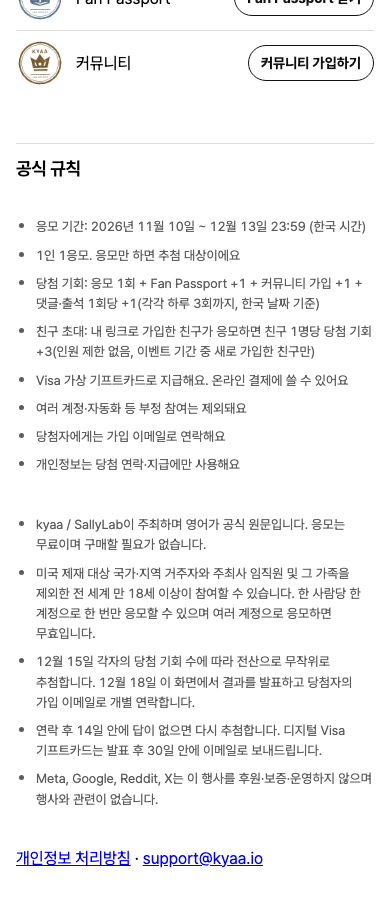
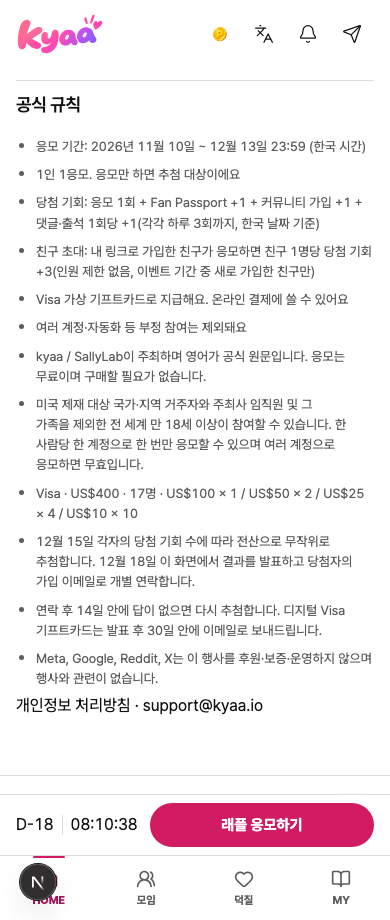
Localize entry chances and verify official rules on mobile

diff --git a/apps/web/app/s/raffle/rules/copy.ts b/apps/web/app/s/raffle/rules/copy.ts
@@ -4,6 +4,7 @@ export const officialRules = {
   "en": [
     "Hosted by kyaa / SallyLab. English is the official version. Entry is free. No purchase necessary.",
     "Open worldwide to people aged 18 or older, except residents of countries or regions under US sanctions and employees of the organizer and their families. One entry and one account per person. Multiple accounts invalidate entry.",
+    "Visa · US$400 · 17 winners · US$100 × 1 / US$50 × 2 / US$25 × 4 / US$10 × 10",
     "On December 15, a computerized random draw will select winners based on their chances. Results will appear here on December 18. Winners will also receive an email at their registered address.",
     "Reply within 14 days of contact or another winner will be drawn. Digital Visa gift cards will be emailed within 30 days of the announcement.",
     "Meta, Google, Reddit and X do not sponsor, endorse or administer this raffle and are not affiliated with it."
@@ -11,12 +12,15 @@ export const officialRules = {
   "ko": [
     "kyaa / SallyLab이 주최하며 영어가 공식 원문입니다. 응모는 무료이며 구매할 필요가 없습니다.",
     "미국 제재 대상 국가·지역 거주자와 주최사 임직원 및 그 가족을 제외한 전 세계 만 18세 이상이 참여할 수 있습니다. 한 사람당 한 계정으로 한 번만 응모할 수 있으며 여러 계정으로 응모하면 무효입니다.",
+    "Visa · US$400 · 17명 · US$100 × 1 / US$50 × 2 / US$25 × 4 / US$10 × 10",
     "12월 15일 각자의 당첨 기회 수에 따라 전산으로 무작위로 추첨합니다. 12월 18일 이 화면에서 결과를 발표하고 당첨자의 가입 이메일로 개별 연락합니다.",
     "연락 후 14일 안에 답이 없으면 다시 추첨합니다. 디지털 Visa 기프트카드는 발표 후 30일 안에 이메일로 보내드립니다.",
     "Meta, Google, Reddit, X는 이 행사를 후원·보증·운영하지 않으며 행사와 관련이 없습니다."
   ],
   "ja": [
     "主催は kyaa / SallyLab。英語版が公式です。応募は無料で、購入は不要です。",
+    "2026-11-10 – 2026-12-13 23:59 KST · 応募1回。Fan Passport とコミュニティ参加で各+1。コメントとチェックインは各1回+1（韓国時間で各1日3回まで）。招待リンクから期間中に新規登録して応募した友人1人につき+3、人数制限なし。",
+    "Visa · US$400 · 17名 · US$100 × 1 / US$50 × 2 / US$25 × 4 / US$10 × 10",
     "世界各地の18歳以上が対象です。米国の制裁対象国・地域の居住者、主催者の役職員とその家族は対象外です。応募は1人1アカウントで1回限り。複数アカウントは無効です。",
     "12月15日に抽選口数に応じたコンピューター抽選を行います。12月18日にこの画面で発表し、当選者の登録メールにも通知します。",
     "通知後14日以内に返信がなければ再抽選します。デジタルVisaギフトカードは発表後30日以内にメールで送付します。",
@@ -24,6 +28,8 @@ export const officialRules = {
   ],
   "zh-Hans": [
     "主办方为 kyaa / SallyLab。英文版为正式版本。免费参加，无需购买。",
+    "2026-11-10 – 2026-12-13 23:59 KST · 报名获1次机会。领取 Fan Passport、加入社区各加1次。评论、签到每次加1次，按韩国日期各限每天3次。活动期间好友通过你的链接注册并参加，每人加3次，人数不限。",
+    "Visa · US$400 · 17名 · US$100 × 1 / US$50 × 2 / US$25 × 4 / US$10 × 10",
     "面向全球年满18岁者，美国制裁国家或地区居民、主办方员工及其家属除外。每人限用一个账号参加一次，多账号参与无效。",
     "12月15日按每人的抽奖机会数进行电脑随机抽奖。12月18日在本页公布结果，并通过注册邮箱通知中奖者。",
     "收到通知后14天内未回复将重新抽奖。数字 Visa 礼品卡将在公布结果后30天内通过电子邮件发送。",
@@ -31,6 +37,8 @@ export const officialRules = {
   ],
   "zh-Hant": [
     "主辦單位為 kyaa / SallyLab。英文版為正式版本。免費參加，無須購買。",
+    "2026-11-10 – 2026-12-13 23:59 KST · 報名得1次機會。領取 Fan Passport、加入社群各加1次。留言、簽到每次加1次，以韓國日期計算，各限每天3次。活動期間好友透過你的連結註冊並參加，每人加3次，人數不限。",
+    "Visa · US$400 · 17名 · US$100 × 1 / US$50 × 2 / US$25 × 4 / US$10 × 10",
     "開放全球年滿18歲者參加，美國制裁國家或地區的居民、主辦單位員工及其家屬除外。每人限用一個帳號參加一次，多帳號參加無效。",
     "12月15日依每人的抽獎機會數進行電腦隨機抽獎。12月18日在本頁公布結果，並寄信至得獎者的註冊信箱。",
     "收到通知後14天內未回覆將重新抽獎。數位 Visa 禮品卡將於公布結果後30天內以電子郵件寄出。",
@@ -38,6 +46,8 @@ export const officialRules = {
   ],
   "es": [
     "Organiza kyaa / SallyLab. La versión oficial es la inglesa. Participar es gratis y no requiere compra.",
+    "2026-11-10 – 2026-12-13 23:59 KST · Una oportunidad al participar. Fan Passport y unirse a una comunidad suman una cada uno. Cada comentario o registro diario suma una (máximo tres de cada tipo por día en Corea). Cada amigo que se registre con tu enlace durante el evento y participe suma tres, sin límite de amigos.",
+    "Visa · US$400 · 17 ganadores · US$100 × 1 / US$50 × 2 / US$25 × 4 / US$10 × 10",
     "Pueden participar mayores de 18 años y personas de 18 años de todo el mundo, salvo residentes de países o regiones bajo sanciones de EE. UU., empleados del organizador y sus familias. Una participación y una cuenta por persona. Usar varias cuentas invalida la participación.",
     "El 15 de diciembre se realizará un sorteo informático aleatorio ponderado según las oportunidades acumuladas. El 18 de diciembre se publicarán los resultados aquí y se avisará a los ganadores por su correo registrado.",
     "Si no hay respuesta en los 14 días siguientes al aviso, se repetirá el sorteo. Las tarjetas Visa digitales se enviarán por correo electrónico en los 30 días siguientes al anuncio.",
@@ -45,6 +55,8 @@ export const officialRules = {
   ],
   "fr": [
     "Organisé par kyaa / SallyLab. La version anglaise fait foi. La participation est gratuite et sans obligation d’achat.",
+    "2026-11-10 – 2026-12-13 23:59 KST · Une chance à l’inscription. Le Fan Passport et l’adhésion à une communauté ajoutent chacun une chance. Chaque commentaire ou pointage ajoute une chance, dans la limite de trois par type et par jour en Corée. Chaque ami qui crée son compte via votre lien pendant l’événement et participe ajoute trois chances, sans limite d’amis.",
+    "Visa · US$400 · 17 gagnants · US$100 × 1 / US$50 × 2 / US$25 × 4 / US$10 × 10",
     "Ouvert dès 18 ans dans le monde entier, sauf aux résidents des pays et régions sous sanctions américaines, au personnel de l’organisateur et à ses familles. Une participation et un compte par personne. Tout usage de plusieurs comptes annule la participation.",
     "Le 15 décembre, un tirage informatique aléatoire tiendra compte des chances cumulées. Les résultats seront publiés ici le 18 décembre et les gagnants seront contactés à leur adresse électronique d’inscription.",
     "Sans réponse dans les 14 jours suivant le contact, un nouveau tirage aura lieu. Les cartes cadeaux Visa numériques seront envoyées par courriel dans les 30 jours suivant l’annonce.",
@@ -52,6 +64,8 @@ export const officialRules = {
   ],
   "pt": [
     "Organização de kyaa / SallyLab. A versão oficial é a inglesa. A participação é gratuita e não exige compra.",
+    "2026-11-10 – 2026-12-13 23:59 KST · Uma chance pela inscrição. O Fan Passport e a entrada em uma comunidade dão uma chance cada. Cada comentário ou check-in soma uma chance, até três de cada tipo por dia na Coreia. Cada amigo que criar uma conta pelo seu link durante o evento e participar soma três chances, sem limite de amigos.",
+    "Visa · US$400 · 17 ganhadores · US$100 × 1 / US$50 × 2 / US$25 × 4 / US$10 × 10",
     "Aberto a pessoas a partir de 18 anos em todo o mundo, exceto residentes de países ou regiões sob sanções dos EUA, funcionários da organizadora e seus familiares. Uma inscrição e uma conta por pessoa. O uso de várias contas invalida a inscrição.",
     "Em 15 de dezembro, um sorteio eletrônico aleatório levará em conta as chances acumuladas. Os resultados serão publicados aqui em 18 de dezembro e os ganhadores receberão um aviso no e-mail cadastrado.",
     "Sem resposta em até 14 dias após o contato, haverá novo sorteio. Os cartões-presente Visa digitais serão enviados por e-mail em até 30 dias após o anúncio.",
@@ -59,6 +73,8 @@ export const officialRules = {
   ],
   "id": [
     "Diselenggarakan oleh kyaa / SallyLab. Versi resmi berbahasa Inggris. Keikutsertaan gratis tanpa pembelian.",
+    "2026-11-10 – 2026-12-13 23:59 KST · Mendaftar memberi satu peluang. Fan Passport dan bergabung dengan komunitas masing-masing memberi satu tambahan. Setiap komentar atau presensi memberi satu lagi, maksimal tiga per jenis per hari waktu Korea. Setiap teman yang membuat akun lewat tautan Anda selama acara dan ikut undian memberi tiga tambahan, tanpa batas jumlah teman.",
+    "Visa · US$400 · 17 pemenang · US$100 × 1 / US$50 × 2 / US$25 × 4 / US$10 × 10",
     "Terbuka bagi peserta berusia 18 tahun ke atas di seluruh dunia, kecuali penduduk negara atau wilayah yang dikenai sanksi AS, pegawai penyelenggara dan keluarga mereka. Satu akun dan satu pendaftaran per orang. Penggunaan beberapa akun membatalkan pendaftaran.",
     "Pada 15 Desember komputer akan mengundi pemenang secara acak berdasarkan jumlah peluang masing-masing. Hasil diumumkan di sini pada 18 Desember dan pemenang dihubungi melalui email terdaftar.",
     "Jika tidak ada balasan dalam 14 hari sejak dihubungi, pengundian akan diulang. Kartu hadiah Visa digital dikirim melalui email dalam 30 hari setelah pengumuman.",
@@ -66,6 +82,8 @@ export const officialRules = {
   ],
   "vi": [
     "kyaa / SallyLab tổ chức. Bản tiếng Anh là bản chính thức. Tham gia miễn phí, không cần mua hàng.",
+    "2026-11-10 – 2026-12-13 23:59 KST · Đăng ký được một cơ hội. Nhận Fan Passport và tham gia cộng đồng, mỗi việc thêm một cơ hội. Mỗi bình luận hoặc lần điểm danh thêm một cơ hội, tối đa ba lần mỗi loại mỗi ngày theo giờ Hàn Quốc. Mỗi người bạn tạo tài khoản qua liên kết của bạn trong thời gian sự kiện và dự thưởng giúp bạn có thêm ba cơ hội, không giới hạn số bạn.",
+    "Visa · US$400 · 17 người trúng thưởng · US$100 × 1 / US$50 × 2 / US$25 × 4 / US$10 × 10",
     "Dành cho người từ 18 tuổi trên toàn thế giới, trừ cư dân các quốc gia hoặc vùng lãnh thổ bị Hoa Kỳ trừng phạt, nhân viên đơn vị tổ chức và gia đình họ. Mỗi người chỉ đăng ký một lần bằng một tài khoản. Dùng nhiều tài khoản sẽ bị hủy lượt tham gia.",
     "Ngày 15/12, máy tính sẽ quay số ngẫu nhiên theo số cơ hội của mỗi người. Kết quả được công bố tại đây ngày 18/12 và người thắng sẽ được thông báo qua email đã đăng ký.",
     "Nếu không trả lời trong 14 ngày kể từ khi được liên hệ, ban tổ chức sẽ quay số lại. Thẻ quà tặng Visa điện tử sẽ được gửi qua email trong vòng 30 ngày kể từ khi công bố.",
@@ -73,6 +91,8 @@ export const officialRules = {
   ],
   "th": [
     "จัดโดย kyaa / SallyLab ฉบับภาษาอังกฤษเป็นฉบับทางการ เข้าร่วมฟรีโดยไม่ต้องซื้อสินค้า",
+    "2026-11-10 – 2026-12-13 23:59 KST · สมัครรับหนึ่งสิทธิ์ รับ Fan Passport และเข้าร่วมชุมชนเพิ่มอย่างละหนึ่งสิทธิ์ แสดงความคิดเห็นหรือเช็กอินเพิ่มครั้งละหนึ่งสิทธิ์ สูงสุดอย่างละสามครั้งต่อวันตามเวลาเกาหลี เพื่อนแต่ละคนที่สมัครบัญชีผ่านลิงก์ของคุณระหว่างกิจกรรมและร่วมจับรางวัลเพิ่มให้อีกสามสิทธิ์ ไม่จำกัดจำนวนเพื่อน",
+    "Visa · US$400 · ผู้ชนะ 17 คน · US$100 × 1 / US$50 × 2 / US$25 × 4 / US$10 × 10",
     "เปิดให้ผู้มีอายุ 18 ปีขึ้นไปทั่วโลก ยกเว้นผู้ที่อาศัยในประเทศหรือภูมิภาคที่สหรัฐฯ คว่ำบาตร พนักงานของผู้จัดและครอบครัว ลงทะเบียนได้คนละหนึ่งครั้งด้วยบัญชีเดียว การใช้หลายบัญชีทำให้สิทธิ์เป็นโมฆะ",
     "วันที่ 15 ธันวาคมจะสุ่มผู้ชนะด้วยคอมพิวเตอร์ตามจำนวนสิทธิ์ของแต่ละคน ประกาศผลที่หน้านี้วันที่ 18 ธันวาคมและแจ้งผู้ชนะทางอีเมลที่ลงทะเบียน",
     "หากไม่ตอบกลับภายใน 14 วันหลังได้รับแจ้ง จะจับรางวัลใหม่ บัตรของขวัญ Visa ดิจิทัลจะส่งทางอีเมลภายใน 30 วันหลังประกาศผล",
@@ -80,6 +100,8 @@ export const officialRules = {
   ],
   "ru": [
     "Организатор — kyaa / SallyLab. Официальная версия правил составлена на английском языке. Участие бесплатное, покупка не требуется.",
+    "2026-11-10 – 2026-12-13 23:59 KST · За регистрацию в розыгрыше даётся один шанс. Fan Passport и вступление в сообщество дают ещё по одному. За каждый комментарий или отметку посещения добавляется один шанс, до трёх каждого вида в сутки по корейскому времени. За каждого друга, который создаст аккаунт по вашей ссылке во время акции и примет участие, начисляются три шанса, без ограничения числа друзей.",
+    "Visa · US$400 · 17 победителей · US$100 × 1 / US$50 × 2 / US$25 × 4 / US$10 × 10",
     "Участвовать могут люди от 18 лет по всему миру, кроме жителей стран и регионов под санкциями США, сотрудников организатора и членов их семей. Один человек может подать одну заявку с одного аккаунта. При использовании нескольких аккаунтов заявка аннулируется.",
     "15 декабря компьютер случайным образом выберет победителей с учётом числа их шансов. 18 декабря результаты появятся на этой странице, а победители получат письмо на адрес, указанный при регистрации.",
     "Если победитель не ответит в течение 14 дней после уведомления, приз разыграют повторно. Цифровые подарочные карты Visa отправят по электронной почте в течение 30 дней после объявления результатов.",
@@ -87,9 +109,27 @@ export const officialRules = {
   ],
   "mn": [
     "Зохион байгуулагч нь kyaa / SallyLab. Англи эх нь албан ёсны хувилбар. Оролцох үнэ төлбөргүй бөгөөд худалдан авалт хийх шаардлагагүй.",
+    "2026-11-10 – 2026-12-13 23:59 KST · Сугалаанд бүртгүүлэхэд нэг боломжтой болно. Fan Passport авах, нийгэмлэгт нэгдэхэд тус бүр нэг боломж нэмэгдэнэ. Сэтгэгдэл бичих, ирц бүртгүүлэх бүрд нэг боломж нэмэгдэнэ. Солонгосын цагаар өдөрт тус бүр гурав хүртэл удаа тооцно. Арга хэмжээний үеэр таны холбоосоор шинээр бүртгүүлээд сугалаанд оролцсон найз бүр гурван боломж нэмнэ. Найзын тоонд хязгааргүй.",
+    "Visa · US$400 · 17 ялагч · US$100 × 1 / US$50 × 2 / US$25 × 4 / US$10 × 10",
     "Дэлхий даяар 18 нас хүрсэн хүн оролцож болно. АНУ-ын хоригт хамрагдсан улс, бүс нутгийн оршин суугчид, зохион байгуулагчийн ажилтнууд болон тэдний гэр бүлийнхэн оролцохгүй. Нэг хүн нэг бүртгэлээр нэг удаа оролцоно. Олон бүртгэл ашиглавал оролцох эрх хүчингүй болно.",
     "12-р сарын 15-нд хүн бүрийн хуримтлуулсан боломжийн тоог харгалзан компьютерээр санамсаргүй сонгоно. 12-р сарын 18-нд дүнг энэ хуудсанд нийтэлж, ялагч бүрд бүртгэлтэй имэйлээр нь мэдэгдэнэ.",
     "Мэдэгдсэнээс хойш 14 хоногт хариу өгөхгүй бол дахин сугална. Visa цахим бэлгийн картыг дүн зарласнаас хойш 30 хоногийн дотор имэйлээр илгээнэ.",
     "Meta, Google, Reddit, X нь энэ сугалааг ивээн тэтгэдэггүй, дэмждэггүй, зохион байгуулдаггүй бөгөөд үүнд хамааралгүй."
   ]
 } satisfies Record<AppLocale, string[]>;
+
+export const privacyLabel = {
+  "en": "Privacy policy",
+  "ko": "개인정보 처리방침",
+  "ja": "プライバシーポリシー",
+  "zh-Hans": "隐私政策",
+  "zh-Hant": "隱私權政策",
+  "es": "Política de privacidad",
+  "fr": "Politique de confidentialité",
+  "pt": "Política de privacidade",
+  "id": "Kebijakan privasi",
+  "vi": "Chính sách quyền riêng tư",
+  "th": "นโยบายความเป็นส่วนตัว",
+  "ru": "Политика конфиденциальности",
+  "mn": "Нууцлалын бодлого"
+} satisfies Record<AppLocale, string>;

diff --git a/apps/web/app/s/raffle/content.tsx b/apps/web/app/s/raffle/content.tsx
@@ -1,4 +1,4 @@
-import { officialRules } from './rules/copy';
+import { officialRules, privacyLabel } from './rules/copy';
 import { rulesTitle } from './rules/titles';
 import type { AppLocale } from '@/i18n/locales';
 import { signupRaffleText } from '@/i18n/catalogs/signup-raffle';
@@ -104,11 +104,11 @@ export function RaffleContent({ locale, closesAt, now, closed, preview, invite }
         <div className={styles.sectionHead}>
           <FanHeading as="h2" id="raffle-notice"><FanDisplay role="heading">{rulesTitle[locale]}</FanDisplay></FanHeading>
         </div>
-        <ul className={styles.notice}>{(['notice1', 'notice2', 'notice3', 'notice9', 'notice8', 'notice4', 'notice5', 'notice7'] as const).map(key => <li key={key} data-row="raffle-terms"><FanDisplay role="caption">{t(key)}</FanDisplay></li>)}</ul>
+        {(locale === 'en' || locale === 'ko') && <ul className={styles.notice}>{(['notice1', 'notice2', 'notice3', 'notice9', 'notice8', 'notice4'] as const).map(key => <li key={key} data-row="raffle-terms"><FanDisplay role="caption">{t(key)}</FanDisplay></li>)}</ul>}
         <ul className={styles.notice}>
           {officialRules[locale].map(line => <li key={line} data-row="raffle-rule"><FanDisplay role="caption">{line}</FanDisplay></li>)}
         </ul>
-        <p><a href={`/privacy?locale=${locale}`}>{locale === 'ko' ? '개인정보 처리방침' : 'Privacy policy'}</a> · <a href="mailto:support@kyaa.io">support@kyaa.io</a></p>
+        <p><a href={`/privacy?locale=${locale}`}>{privacyLabel[locale]}</a> · <a href="mailto:support@kyaa.io">support@kyaa.io</a></p>
       </section>
     </div>
     <RaffleStickyCta />

diff --git a/apps/web/features/analytics/domain/acquisition-attribution.test.ts b/apps/web/features/analytics/domain/acquisition-attribution.test.ts
@@ -26,6 +26,15 @@ describe("acquisition attribution", () => {
     expect(acquisitionLanding("/admin/dashboard")).toBeNull();
   });
 
+  it.each(["community", "kol"])("attributes raffle rules visits to %s", medium => {
+    expect(acquisitionLanding("/s/raffle/rules")).toBe("benefit");
+    expect(classifyAcquisitionChannel({
+      searchParams: new URLSearchParams({ utm_medium: medium }),
+      referrer: "https://www.reddit.com/",
+      siteOrigin: "https://kyaa.io",
+    })).toBe(medium);
+  });
+
   it("reduces query and referrer inputs to a bounded channel", () => {
     const secretQuery = new URLSearchParams({
       utm_source: "person@example.com",
